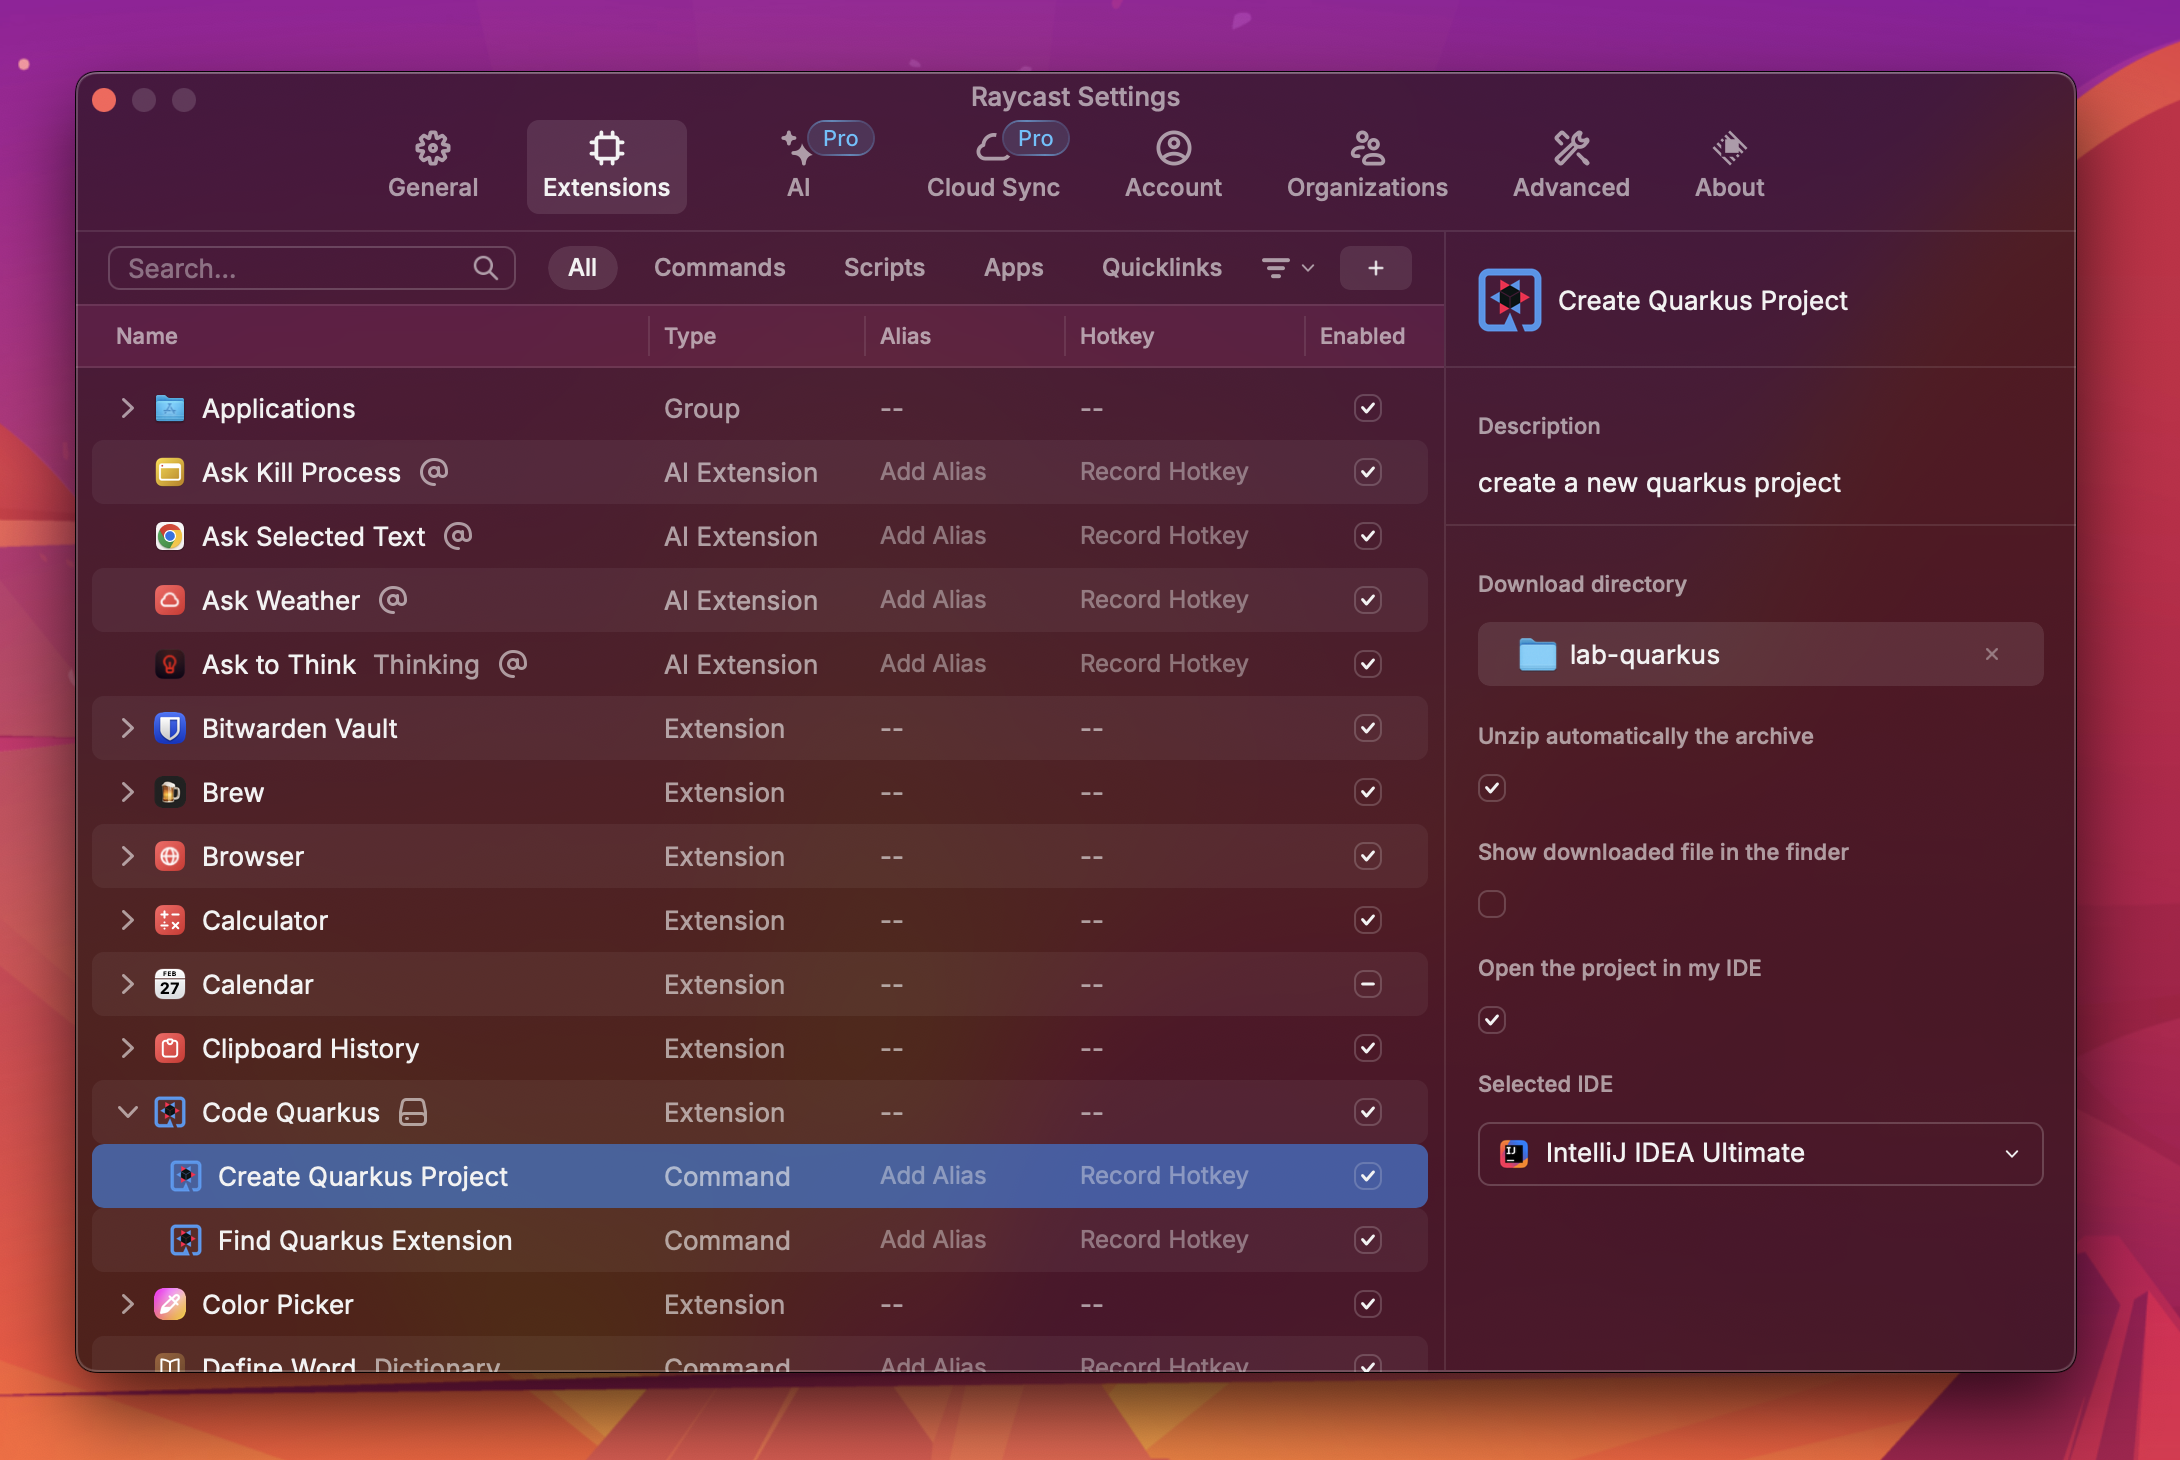
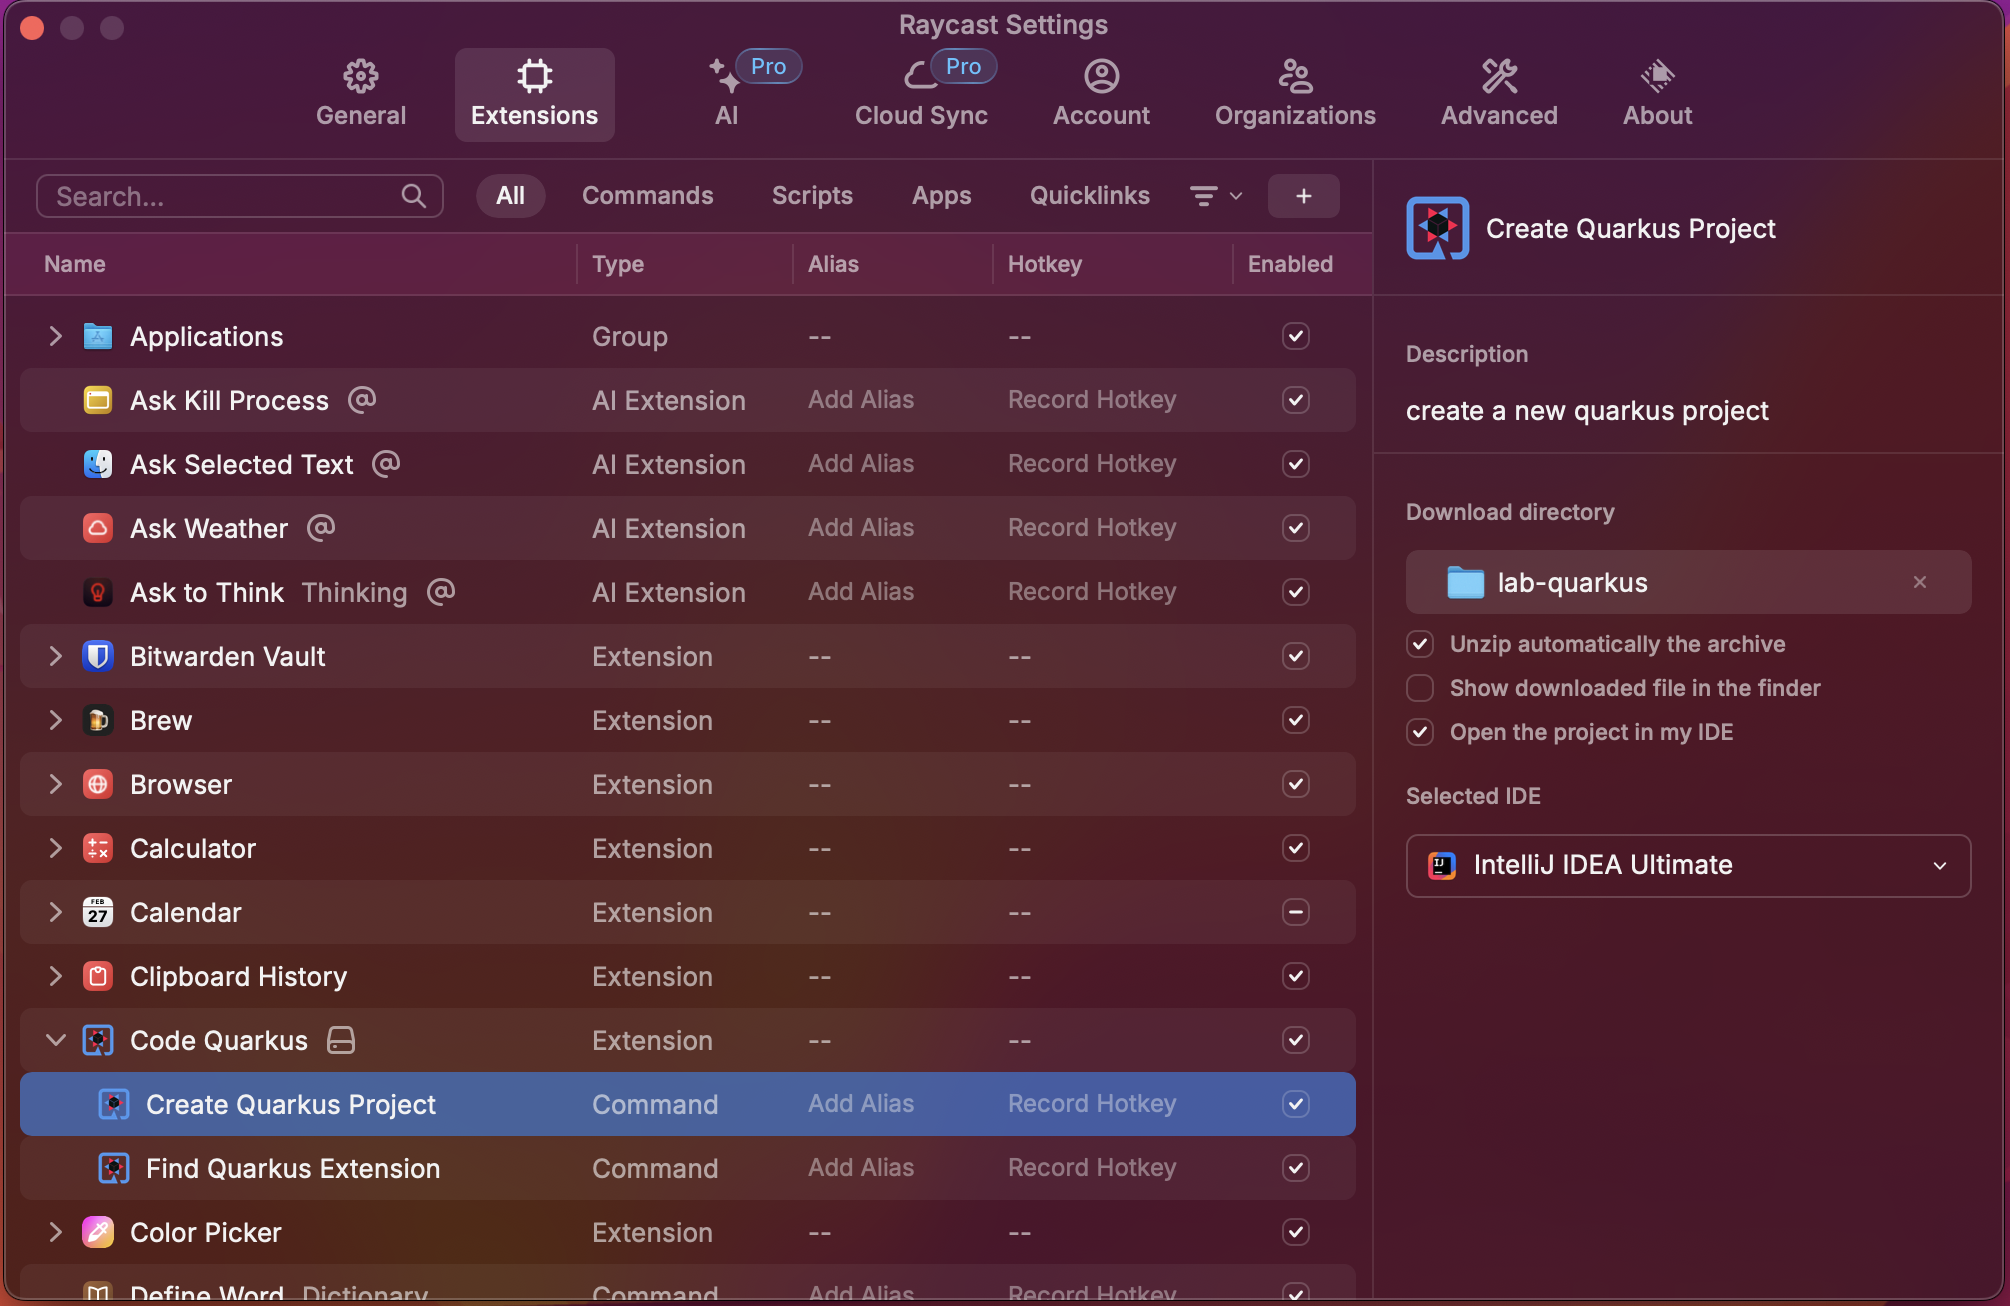
fix(lint): fix linting issues
- replace title properties by a label properties for checkboxes
- update print-screen for doc
- fix linting

diff --git a/src/Dependencies.tsx b/src/Dependencies.tsx
@@ -96,7 +96,7 @@ export function Dependencies({ version, configuration }: { version: QuarkusVersi
       writeFileSync(downloadsPath, buffer);
 
       await afterDownload(dir);
-      
+
       await popToRoot();
 
       await showToast({
@@ -115,8 +115,8 @@ export function Dependencies({ version, configuration }: { version: QuarkusVersi
     }
   }
 
-  async function afterDownload( dir: string): Promise<void> {
-    const directoryPath= path.join(dir, configuration.artifact);
+  async function afterDownload(dir: string): Promise<void> {
+    const directoryPath = path.join(dir, configuration.artifact);
     const downloadsPath = `${directoryPath}.zip`;
     if (!preferences.unzip) return;
     unzipFile(downloadsPath, dir);
@@ -125,12 +125,12 @@ export function Dependencies({ version, configuration }: { version: QuarkusVersi
       console.debug("opening finder", directoryPath);
       await showInFinder(directoryPath);
     }
-    if(!preferences.openInIDE) {
-      console.debug("Not opening an IDE")
+    if (!preferences.openInIDE) {
+      console.debug("Not opening an IDE");
       return;
     }
-    if(!preferences.ide){
-      console.warn("Not IDE configured")
+    if (!preferences.ide) {
+      console.warn("Not IDE configured");
       await showToast({
         style: Toast.Style.Failure,
         title: "No IDE selected",
@@ -139,8 +139,6 @@ export function Dependencies({ version, configuration }: { version: QuarkusVersi
       return;
     }
     await openInIDE(directoryPath, preferences.ide);
-
-
   }
 
   function setConfigDependencies(deps: string[]) {

diff --git a/src/utils.ts b/src/utils.ts
@@ -32,7 +32,7 @@ export function unzipFile(zipFilePath: string, destinationDir: string) {
     console.log("Extraction complete");
     return true;
   } catch (error) {
-    console.error(`Error extracting zip (${zipFilePath}):`, error, );
+    console.error(`Error extracting zip (${zipFilePath}):`, error);
     throw error;
   }
 }
